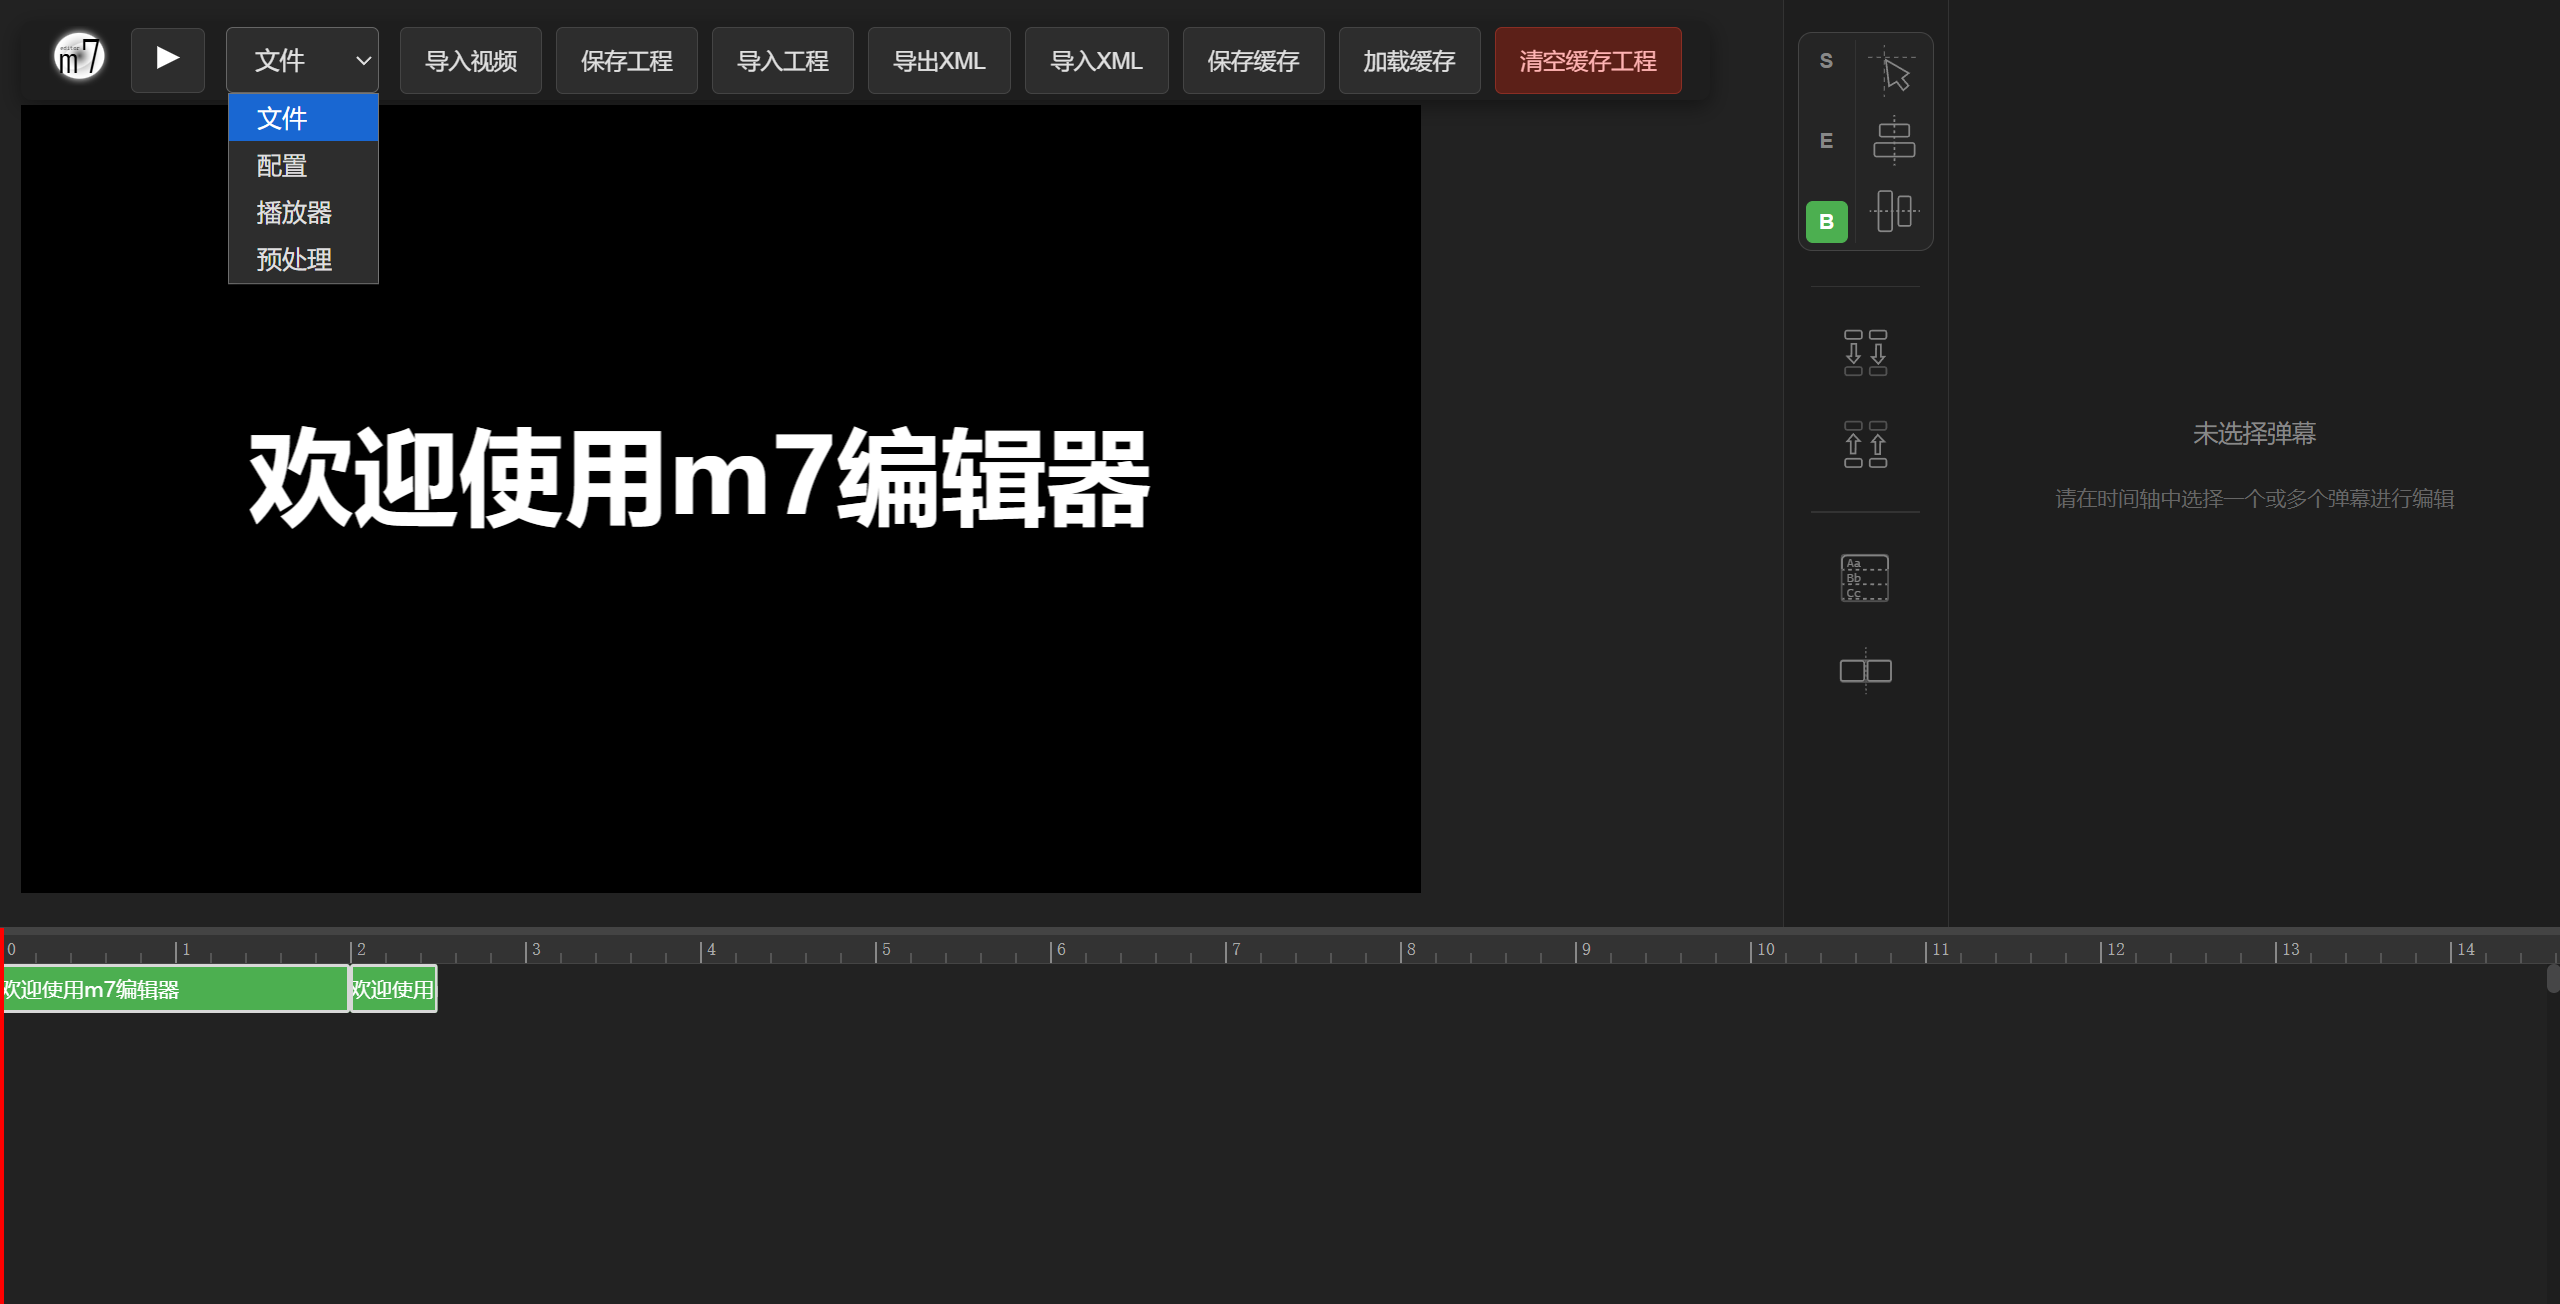
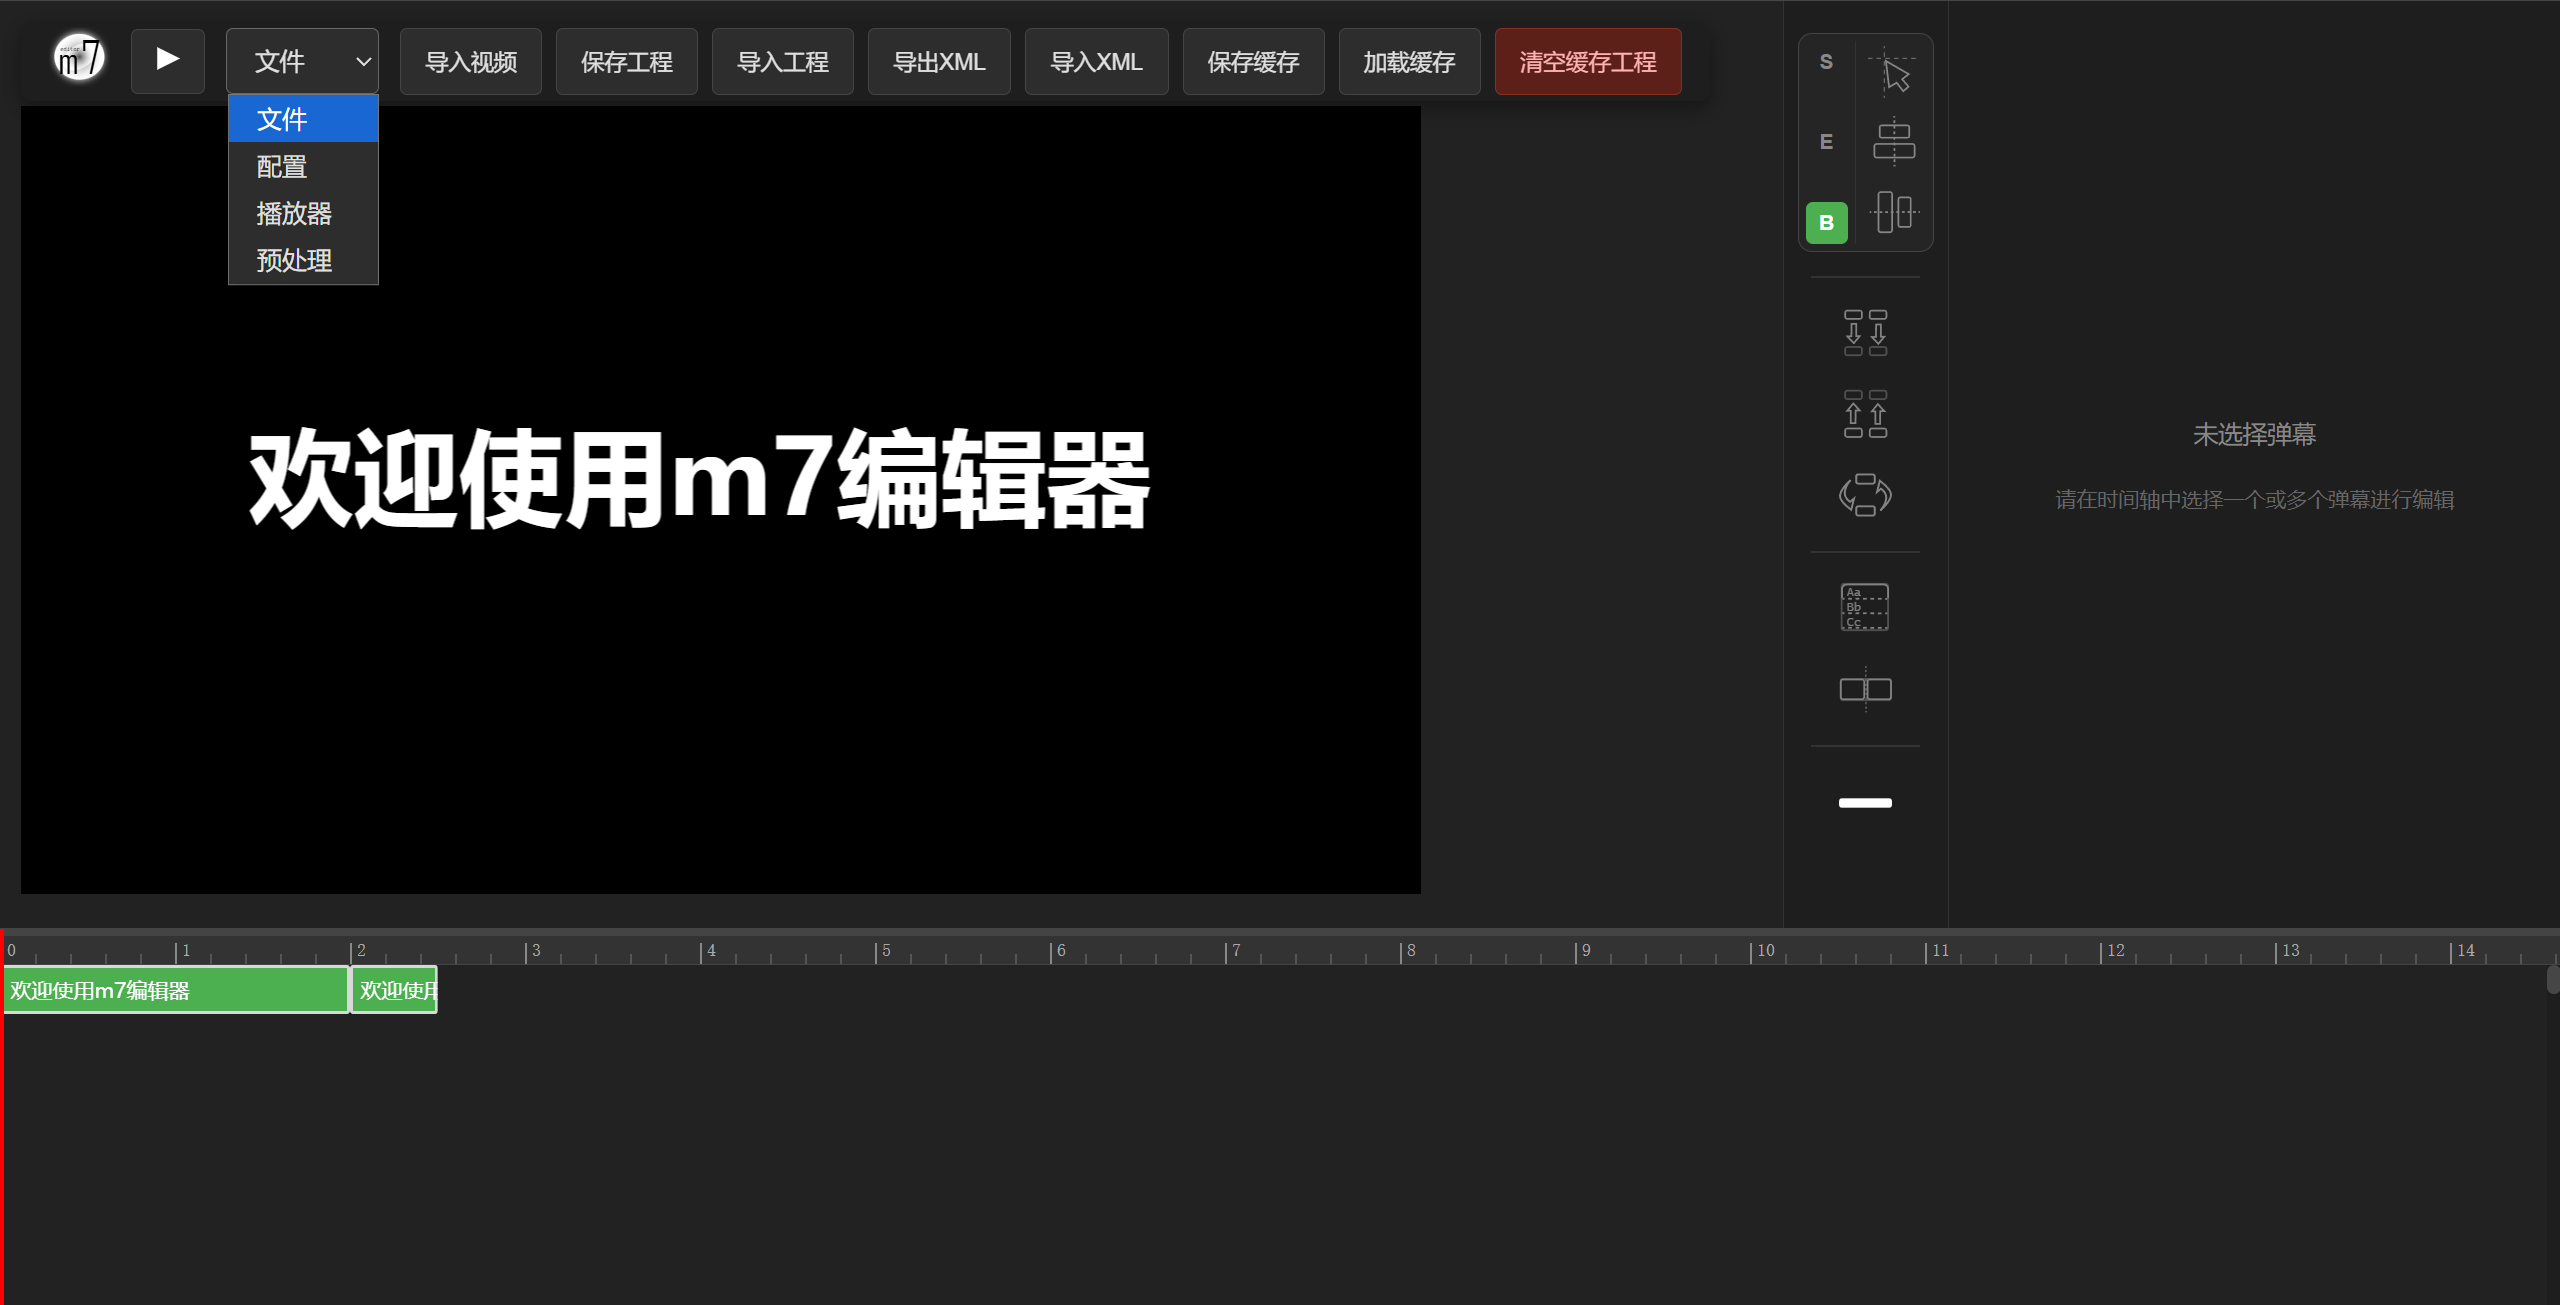
v0.5.0

diff --git a/src/components/timeline/timeline.vue b/src/components/timeline/timeline.vue
@@ -367,6 +367,17 @@ function handleKeyboardShortcuts(e: KeyboardEvent) {
     return
   }
   
+  // ====== 全选弹幕 ======
+  
+  // `ctrl+a` 全选弹幕
+  if (e.key === 'a' && isCtrl && !isAlt && !isShift) {
+    e.preventDefault()
+    const allIds = store.danmakus.map((d: any) => d.id)
+    store.selectedIds = allIds
+    console.log('[快捷键] 全选弹幕')
+    return
+  }
+  
   // ====== 回滚/重做 ======
   
   // `ctrl+z` 撤销

diff --git a/src/store/editor.ts b/src/store/editor.ts
@@ -679,7 +679,7 @@ export const useEditorStore = defineStore('editor', {
     exportProject() {
       return {
         meta: {
-          version: '0.4.0',
+          version: '0.5.0',
           createdAt: Date.now()
         },
         timeline: {

diff --git a/README.md b/README.md
@@ -160,6 +160,9 @@ npm run preview
 - 将结束坐标应用至起始坐标工具
   - 将结束坐标应用至起始坐标
 
+- 互换结束与起始坐标工具
+  - 将结束与起始坐标互换
+
 - 行分隔工具
   - 将有换行的弹幕拆分为多条弹幕
   - 有layer避让
@@ -177,6 +180,15 @@ npm run preview
   - S（Start），意为作用于起始坐标
   - E（End），意为作用于结束坐标
   - B（Both），意为作用于起始与结束坐标
+
+### 高级工具列表：
+- 描边工具
+  - 支持选择描边宽度
+  - 支持输入描边颜色
+  - 有layer避让
+  - 若新建弹幕坐标有小于0的则弹窗提醒，并钳至0
+
+- 命令工具（暂未开发）
 
 ## 4. 时间轴区域
 
@@ -211,6 +223,7 @@ npm run preview
 | `Delete` | 删除当前选中的弹幕 |
 | `Ctrl + C` | 复制选中的弹幕 |
 | `Ctrl + V` | 粘贴弹幕 |
+| `Ctrl + A` | 全选弹幕 |
 | `Ctrl + Z` | 撤销 |
 | `Ctrl + Y` | 重做 |
 | `[` | 将播放头移动到当前操作弹幕或首个选中弹幕的开始位置 |
@@ -224,8 +237,8 @@ npm run preview
 | --- | --- |
 | `ArrowLeft` | 按当前播放头步长向左移动播放头 |
 | `ArrowRight` | 按当前播放头步长向右移动播放头 |
-| `ArrowUp` | 将选中弹幕layer-1（向上移动）|
-| `ArrowDown` | 将选中弹幕layer+1（向下移动） |
+| `ArrowUp` | 向上移动视图一个layer宽度，若有选中的弹幕则将其layer-1（向上移动）|
+| `ArrowDown` | 向下移动视图一个layer宽度，若有选中的弹幕则将其layer+1（向下移动） |
 | `Ctrl + ArrowLeft` | 向左平移时间轴一半视图，并同步移动播放头 |
 | `Ctrl + ArrowRight` | 向右平移时间轴一半视图，并同步移动播放头 |
 | `Ctrl + Alt + ArrowLeft` | 向左平移时间轴 30 秒，并同步移动播放头 |
@@ -350,11 +363,13 @@ npm run preview
     │       project.ts               #工程文件结构
     │
     ├───icon                         #工具栏图标
+    │       advanced_tools.svg
     │       cut.svg
     │       E_to_S.svg
     │       horizontal_centering.svg
     │       Pick_and_locate.svg
     │       Split_by_line.svg
+    │       S_E_exchange.svg
     │       S_to_E.svg
     │       vertical_centering.svg
     │
